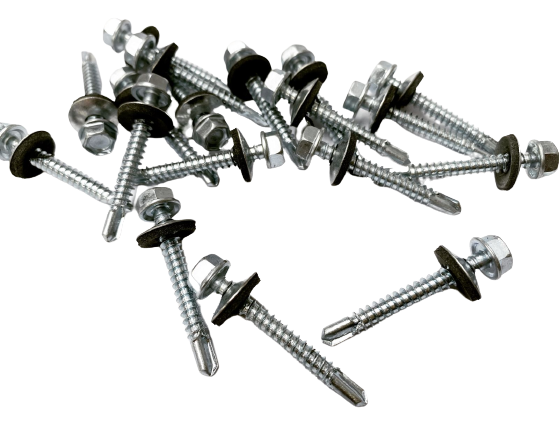
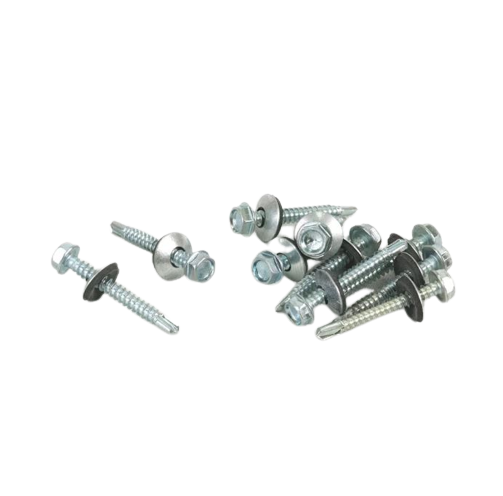
casi completa

diff --git a/clavos.html b/clavos.html
@@ -9,7 +9,7 @@
     <!-- The above 4 meta tags *must* come first in the head; any other head content must come *after* these tags -->
 
     <!-- Title -->
-    <title>Consorcio Fama s.a.c | Bobinas</title>
+    <title>Consorcio Fama s.a.c | Clavos</title>
 
     <!-- Favicon -->
     <link rel="icon" href="img/core-img/favicon.ico">
@@ -97,9 +97,9 @@
     <!-- ##### Header Area End ##### -->
 
     <!-- ##### Breadcumb Area Start ##### -->
-    <div class="breadcumb-area bg-img" style="background-image: url(img/bobina/bobina1.jpg);z-index: -1;">
+    <div class="breadcumb-area bg-img" style="background-image: url(img/clavos/bgclavos.jpg);z-index: -1;">
         <div class="bradcumbContent">
-            <h2>Bobinas</h2>
+            <h2>Clavos</h2>
         </div>
     </div>
     <!-- ##### Breadcumb Area End ##### -->
@@ -111,7 +111,7 @@
                 <div class="col-12">
                     <div class="section-heading text-center mx-auto wow fadeInUp" data-wow-delay="300ms">
                         <span>Lo mejor en </span>
-                        <h3>Bobinas</h3>
+                        <h3>Clavos</h3>
                     </div>
                 </div>
             </div>
@@ -121,7 +121,7 @@
                 <div class="col-12 col-lg-6">
                     <div class="single-top-popular-course d-flex align-items-center flex-wrap mb-30 wow fadeInUp" data-wow-delay="400ms">
                         <div class="popular-course-content">
-                            <h5>Bobinas de Aluzinc Natural / Pre Pintadas</h5>
+                            <h5>Clavos de Acero con Cabeza</h5>
                             <!--<span>1/4", 3/8", 1/2"
                                 3/4", 1" |  Rollo 30 mts</span>-->
                             <div class="course-ratings">
@@ -131,18 +131,56 @@
                                 <i class="fa fa-star" aria-hidden="true"></i>
                                 <i class="fa fa-star" aria-hidden="true"></i>
                             </div>
-                            <p>Mayor resistencia a la corrosión en ambientes marinos e industriales.
-                                Alta capacidad de conformación y capacidad de pintado, lo que confiere una
-                                excelente flexibilidad para el diseño.
-                                Térmicamente más eficiente para techos por su alta reflectividad, lo que le
-                                permite que los techos de aluzinc calienten menos que los techos galvanizados.
-                                Buena resistencia al impacto del granizo
-                                Fácil mantenimiento.</p>
-                                <br><br> <p>Disponibles en: </p>
-                            <div class="colores"><span class="circuloRojo"></span><span class="circuloAzul"></span><span class="circuloBlanco"></span></div>
+                            <p>Los clavos de acero con cabeza son productos de acero, obtenidos por
+                                conformado del alambre de acero. Resaltan en el mercado por sus puntas de
+                                diamante, la cabeza bien centrada y el correcto pulido con el que cuentan.</p>
                                 <a href="https://api.whatsapp.com/send?phone=51995005060&text=Hola,%20quiero%20mas%20informacion%20sobre%20el%20consorcio%20FAMA%20S.A.C."   target="_blank"  class="btn academy-btn btn-sm">Cotiza</a>
                         </div>
-                        <div class="popular-course-thumb bg-img" style="background-image: url(img/bobina/natural.png);"></div>
+                        <div class="popular-course-thumb bg-img" style="background-image: url(img/clavos/clavos1.png);"></div>
+                    </div>
+                </div>
+
+                <!-- Single Top Popular Course -->
+                <div class="col-12 col-lg-6">
+                    <div class="single-top-popular-course d-flex align-items-center flex-wrap mb-30 wow fadeInUp" data-wow-delay="500ms">
+                        <div class="popular-course-content">
+                            <h5>Clavos para Calamina</h5>
+                            <!--<span>1/4", 3/8", 1/2"
+                                3/4", 1" |  Rollo 30 mts</span>-->
+                            <div class="course-ratings">
+                                <i class="fa fa-star" aria-hidden="true"></i>
+                                <i class="fa fa-star" aria-hidden="true"></i>
+                                <i class="fa fa-star" aria-hidden="true"></i>
+                                <i class="fa fa-star" aria-hidden="true"></i>
+                                <i class="fa fa-star" aria-hidden="true"></i>
+                            </div>
+                            <p>Clavo fabricado en acero, cuerpo con diseño espiralado, con punta en forma
+                                de diamante, cabeza cónica tipo sombrilla, recubierto de zinc. Ideal para fijación de calaminas en cualquier estructura, componentes de
+                                madera, baldosas de asbesto, tejas de plástico, etc. </p>
+                            <a href="https://api.whatsapp.com/send?phone=51995005060&text=Hola,%20quiero%20mas%20informacion%20sobre%20el%20consorcio%20FAMA%20S.A.C."   target="_blank"  class="btn academy-btn btn-sm">Cotiza</a>
+                        </div>
+                        <div class="popular-course-thumb bg-img" style="background-image: url(img/clavos/clavos3.png);"></div>
+                    </div>
+                </div>
+
+                <!-- Single Top Popular Course -->
+                <div class="col-12 col-lg-6">
+                    <div class="single-top-popular-course d-flex align-items-center flex-wrap mb-30 wow fadeInUp" data-wow-delay="600ms">
+                        <div class="popular-course-content">
+                            <h5>Clavo Autoperforante</h5>
+                            <!--<span>1/4", 3/8", 1/2"
+                                3/4", 1"  |  Rollo 30 mts</span>-->
+                            <div class="course-ratings">
+                                <i class="fa fa-star" aria-hidden="true"></i>
+                                <i class="fa fa-star" aria-hidden="true"></i>
+                                <i class="fa fa-star" aria-hidden="true"></i>
+                                <i class="fa fa-star" aria-hidden="true"></i>
+                                <i class="fa fa-star" aria-hidden="true"></i>
+                            </div>
+                            <p>Es apropiado para fijar cubiertas metálicas a estructuras de acero, especialmente si están expuestas a la intemperie.</p>
+                            <a href="https://api.whatsapp.com/send?phone=51995005060&text=Hola,%20quiero%20mas%20informacion%20sobre%20el%20consorcio%20FAMA%20S.A.C."   target="_blank"  class="btn academy-btn btn-sm">Cotiza</a>
+                        </div>
+                        <div class="popular-course-thumb bg-img" style="background-image: url(img/clavos/clavos2.png);"></div>
                     </div>
                 </div>
 

diff --git a/contacto.html b/contacto.html
@@ -9,7 +9,7 @@
     <!-- The above 4 meta tags *must* come first in the head; any other head content must come *after* these tags -->
 
     <!-- Title -->
-    <title>Consorcio Fama s.a.c | Coberturas</title>
+    <title>Consorcio Fama s.a.c | Contacto</title>
 
     <!-- Favicon -->
     <link rel="icon" href="img/core-img/favicon.ico">
@@ -78,7 +78,7 @@
                                 <a class="dropdown-item" href="mallas.html">Mallas</a>
                                 <a class="dropdown-item" href="madera.html">Madera</a>
                                 <a class="dropdown-item" href="alambres.html">Alámbres</a>
-                                <a class="dropdown-item" href="#">Clavos</a>
+                                <a class="dropdown-item" href="clavos.html">Clavos</a>
                                 <a class="dropdown-item" href="bobinas.html">Bobinas</a>
                                 
                             </div>

diff --git a/alambres.html b/alambres.html
@@ -78,8 +78,8 @@
                                 <a class="dropdown-item" href="mallas.html">Mallas</a>
                                 <a class="dropdown-item" href="madera.html">Madera</a>
                                 <a class="dropdown-item" href="alambres.html">Alámbres</a>
-                                <a class="dropdown-item" href="#">Clavos</a>
-                                <a class="dropdown-item" href="#">Bobinas</a>
+                                <a class="dropdown-item" href="clavos.html">Clavos</a>
+                                <a class="dropdown-item" href="bobinas.html">Bobinas</a>
                                 
                             </div>
                             

diff --git a/calaminas.html b/calaminas.html
@@ -87,8 +87,8 @@
                                 <a class="dropdown-item" href="mallas.html">Mallas</a>
                                 <a class="dropdown-item" href="madera.html">Madera</a>
                                 <a class="dropdown-item" href="alambres.html">Alámbres</a>
-                                <a class="dropdown-item" href="#">Clavos</a>
-                                <a class="dropdown-item" href="#">Bobinas</a>
+                                <a class="dropdown-item" href="clavos.html">Clavos</a>
+                                <a class="dropdown-item" href="bobinas.html">Bobinas</a>
                                 
                             </div>
                             

diff --git a/coberturas.html b/coberturas.html
@@ -78,8 +78,8 @@
                                 <a class="dropdown-item" href="mallas.html">Mallas</a>
                                 <a class="dropdown-item" href="madera.html">Madera</a>
                                 <a class="dropdown-item" href="alambres.html">Alámbres</a>
-                                <a class="dropdown-item" href="#">Clavos</a>
-                                <a class="dropdown-item" href="#">Bobinas</a>
+                                <a class="dropdown-item" href="clavos.html">Clavos</a>
+                                <a class="dropdown-item" href="bobinas.html">Bobinas</a>
                                 
                             </div>
                             

diff --git a/mallas.html b/mallas.html
@@ -78,8 +78,8 @@
                                 <a class="dropdown-item" href="mallas.html">Mallas</a>
                                 <a class="dropdown-item" href="madera.html">Madera</a>
                                 <a class="dropdown-item" href="alambres.html">Alámbres</a>
-                                <a class="dropdown-item" href="#">Clavos</a>
-                                <a class="dropdown-item" href="#">Bobinas</a>
+                                <a class="dropdown-item" href="clavos.html">Clavos</a>
+                                <a class="dropdown-item" href="bobinas.html">Bobinas</a>
                                 
                             </div>
                             

diff --git a/madera.html b/madera.html
@@ -78,8 +78,8 @@
                             <a class="dropdown-item" href="mallas.html">Mallas</a>
                             <a class="dropdown-item" href="madera.html">Madera</a>
                             <a class="dropdown-item" href="alambres.html">Alámbres</a>
-                            <a class="dropdown-item" href="#">Clavos</a>
-                            <a class="dropdown-item" href="#">Bobinas</a>
+                            <a class="dropdown-item" href="clavos.html">Clavos</a>
+                            <a class="dropdown-item" href="bobinas.html">Bobinas</a>
                             
                         </div>
                         

diff --git a/index.html b/index.html
@@ -117,7 +117,7 @@
                                 <a class="dropdown-item" href="mallas.html">Mallas</a>
                                 <a class="dropdown-item" href="madera.html">Madera</a>
                                 <a class="dropdown-item" href="alambres.html">Alámbres</a>
-                                <a class="dropdown-item" href="#">Clavos</a>
+                                <a class="dropdown-item" href="clavos.html">Clavos</a>
                                 <a class="dropdown-item" href="bobinas.html">Bobinas</a>
                                 
                             </div>
